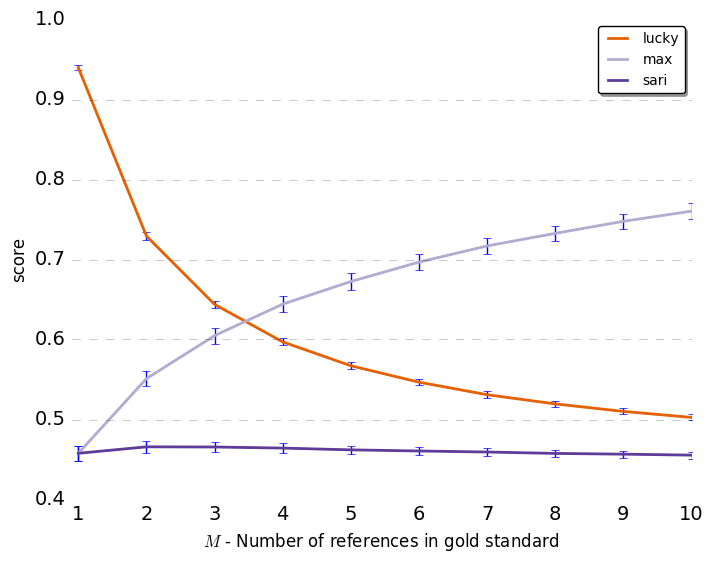
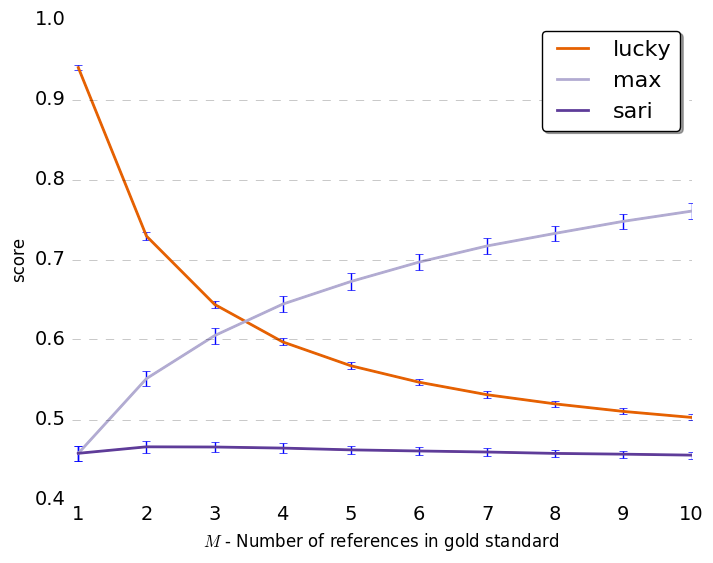
bigger legends

Changed region(s): [[0.7405, 0.0302, 0.9874, 0.2416]]

diff --git a/conservatism_main.tex b/conservatism_main.tex
@@ -461,7 +461,7 @@ and find similar trends with a faster increase in accuracy reaching over $0.47$ 
 	\hfil
 	\begin{subfigure}[]{0.65\columnwidth}
 		\centering
-		\includegraphics[width=\textwidth]{$F_{0.5}$_Ms_significance}
+		\includegraphics[width=\textwidth]{$F_{0.5}$_GLEU_Ms_significance}
 		\caption{$F_{0.5}$ and GLEU\label{fig:F_Ms}}
 	\end{subfigure}
 	\hfil
